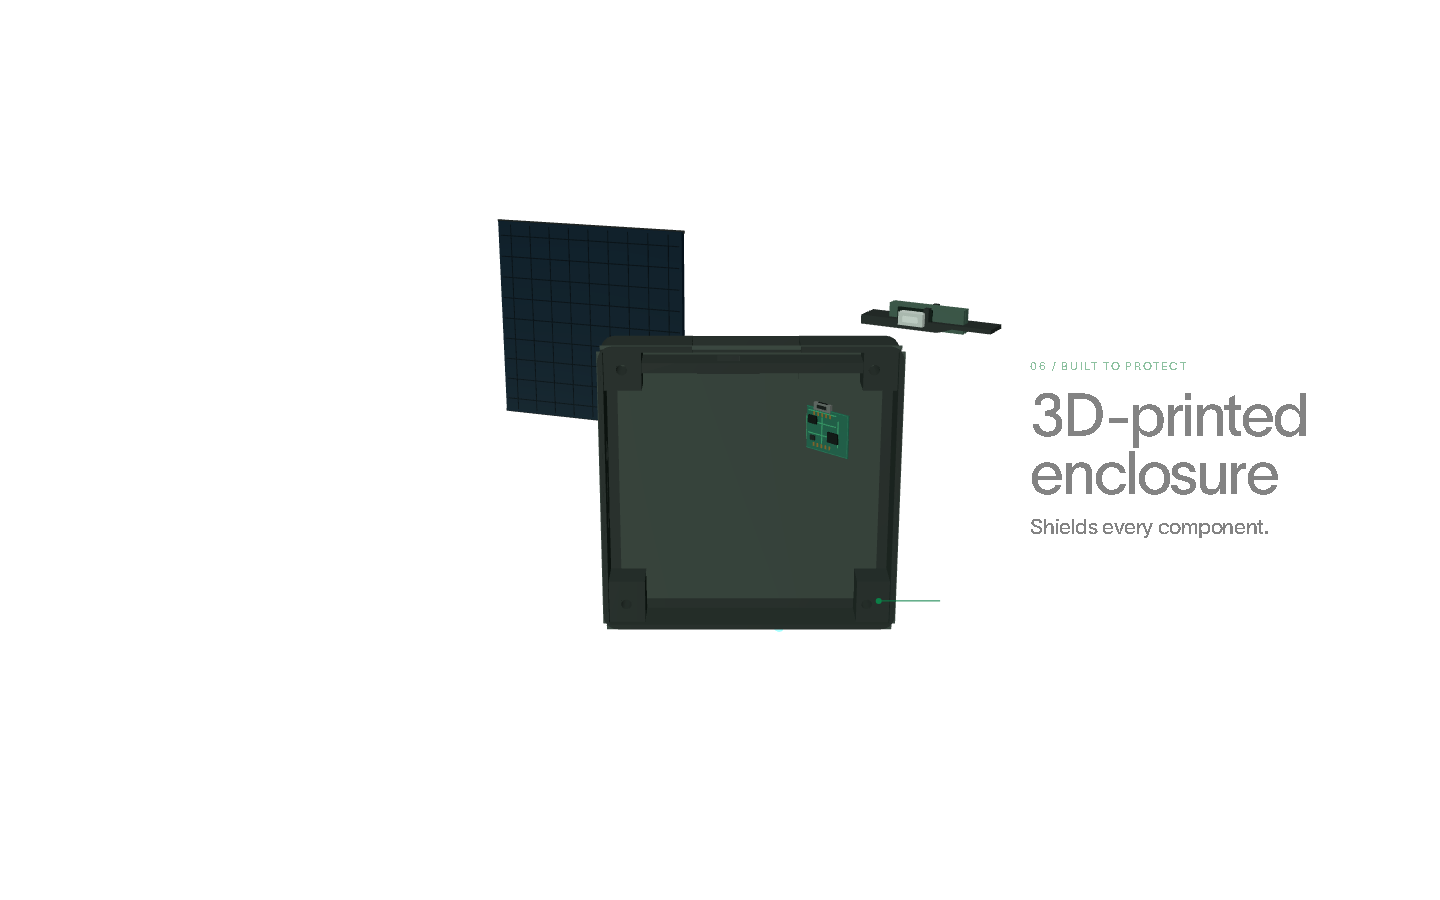
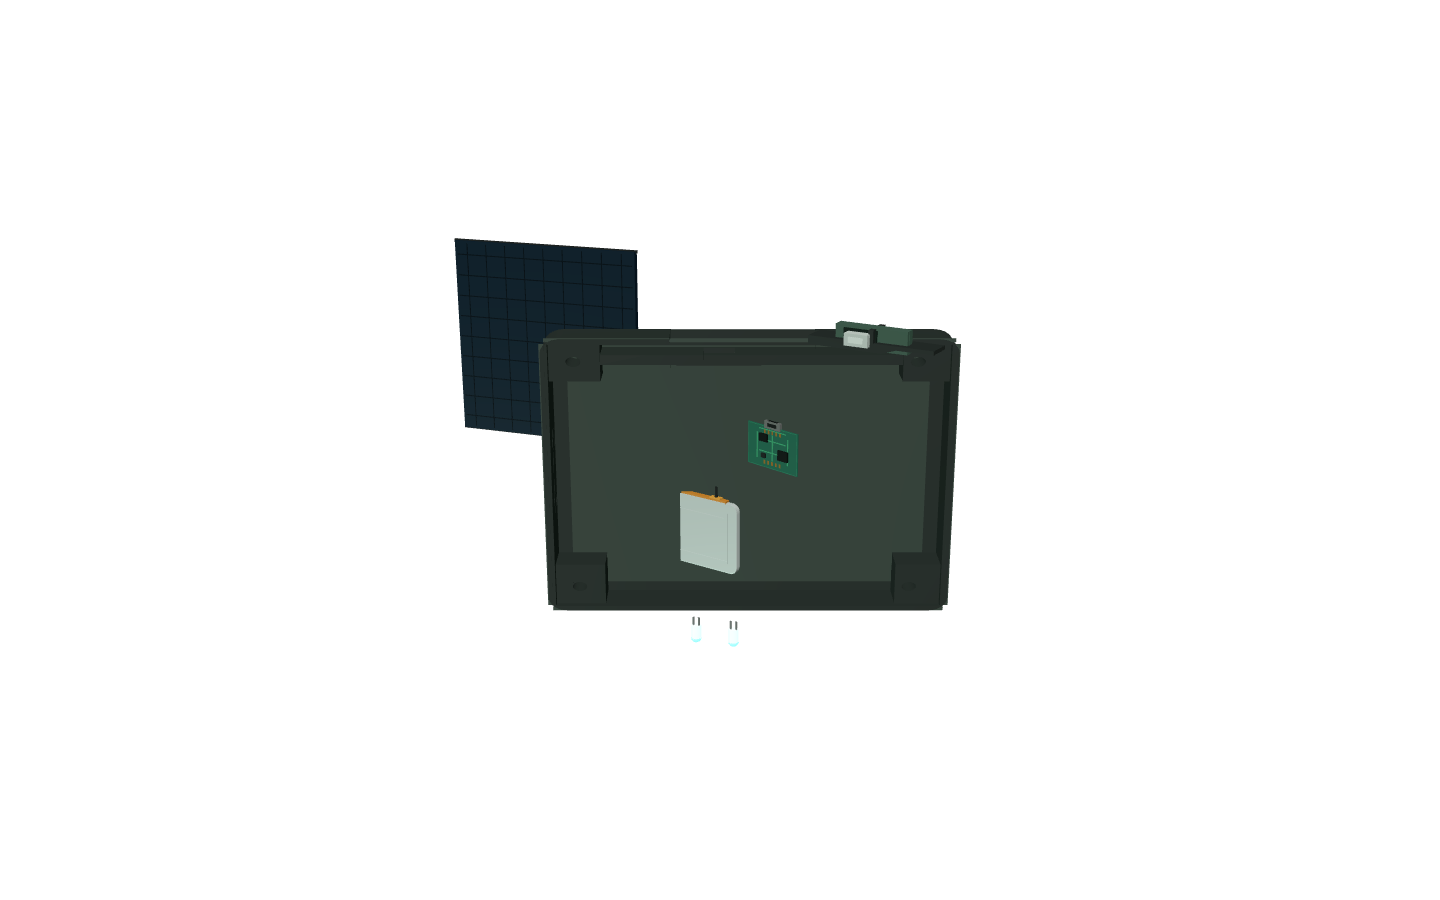
fix(assembly3d): refresh evidence and phase timing proof

Changed region(s): [[0.3125, 0.2178, 0.6875, 0.7156], [0.7188, 0.4356, 0.9062, 0.5911]]

diff --git a/index.html b/index.html
@@ -1065,5 +1065,5 @@ document.addEventListener("DOMContentLoaded", function () {
   if (document.readyState === 'loading') document.addEventListener('DOMContentLoaded', arm);
   else arm();
 })();
-</script><script>if(new URLSearchParams(location.search).get('ffasm')==='3d'){document.documentElement.classList.add('ff-asm3d');var l=document.createElement('link');l.rel='stylesheet';l.href='css/ff-assembly3d.css?v=pass2';document.head.appendChild(l);}</script><script type="importmap">{"imports":{"three":"./js/vendor/three/three.module.js","three/addons/loaders/GLTFLoader.js":"./js/vendor/three/addons/loaders/GLTFLoader.js"}}</script><script type="module">if(document.documentElement.classList.contains('ff-asm3d')){try{await import('./js/ff-assembly3d.js?v=pass2');}catch(err){document.documentElement.classList.add('ff-asm3d-failed');}}</script><script defer src="js/ff-assembly.js?v=pre-release-7"></script></body></html>
+</script><script>if(new URLSearchParams(location.search).get('ffasm')==='3d'){document.documentElement.classList.add('ff-asm3d');var l=document.createElement('link');l.rel='stylesheet';l.href='css/ff-assembly3d.css?v=pass6f';document.head.appendChild(l);}</script><script type="importmap">{"imports":{"three":"./js/vendor/three/three.module.js","three/addons/loaders/GLTFLoader.js":"./js/vendor/three/addons/loaders/GLTFLoader.js"}}</script><script type="module">if(document.documentElement.classList.contains('ff-asm3d')){try{await import('./js/ff-assembly3d.js?v=pass6f');}catch(err){document.documentElement.classList.add('ff-asm3d-failed');}}</script><script defer src="js/ff-assembly.js?v=pre-release-7"></script></body></html>
 

diff --git a/js/ff-assembly3d.js b/js/ff-assembly3d.js
@@ -737,7 +737,13 @@ function init(section) {
       // Give the true enclosure rim/cavity enough visual weight in the
       // all-parts tableau. Solo and closed-product scales remain unchanged.
       const tableauScale = 1.35;
-      g.scale.setScalar(c.id === 'enclosure' && p >= tableauStart && p < 0.91 ? tableauScale : 1);
+      if (c.id === 'enclosure' && p >= tableauStart && p < 0.91) {
+        // Widen the inspection rim in screen space while preserving its
+        // cavity depth/height and the authored insertion seats.
+        g.scale.set(p < T_RE_START ? 1.93 : tableauScale, tableauScale, tableauScale);
+      } else {
+        g.scale.setScalar(1);
+      }
       // Keep every component in the scene so transitions remain scroll-linked;
       // applyDim controls the readable emphasis without a visibility snap.
       g.visible = true;
